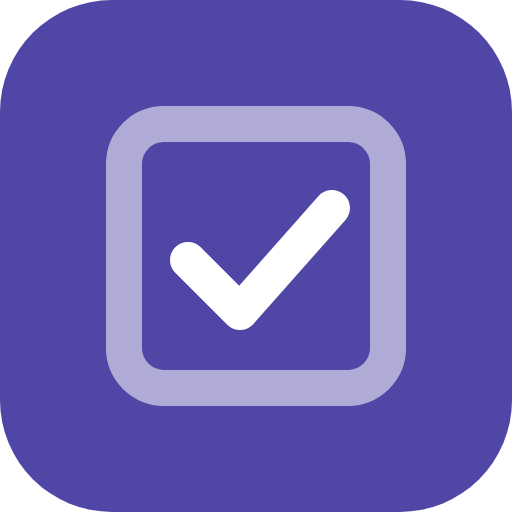
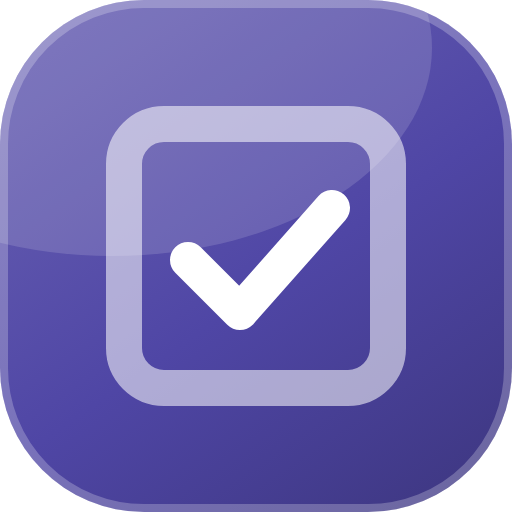
Add files via upload

diff --git a/index.html b/index.html
@@ -2,7 +2,7 @@
 <html lang="en" class="h-full">
 <head>
     <meta charset="UTF-8">
-    <meta http-equiv="Content-Security-Policy" content="default-src 'none'; script-src 'sha256-+zJBM4KFf2Q48acOjuITkdUxOmGa7lkbJbBmST4X/Zs=' 'sha256-7+Hj6lc7nqQZCnR+2RH3nv+J7YXfinZUyU7zoiOYMfw=' 'sha256-WDA5Z0zolebYHGdCiyvZdQVMXIz33yBEgaQ4W38RUDg=' 'sha256-fNlVzcUQ+Ai02+DwLGx4JN8UoLdfyyjPb/PX22LfbBo='; style-src 'unsafe-inline'; img-src 'self' data:; font-src 'none'; connect-src 'none'; media-src 'none'; object-src 'none'; frame-src 'none'; worker-src 'self'; manifest-src 'self'; base-uri 'none'; form-action 'none'">
+    <meta http-equiv="Content-Security-Policy" content="default-src 'none'; script-src 'sha256-+zJBM4KFf2Q48acOjuITkdUxOmGa7lkbJbBmST4X/Zs=' 'sha256-7+Hj6lc7nqQZCnR+2RH3nv+J7YXfinZUyU7zoiOYMfw=' 'sha256-WDA5Z0zolebYHGdCiyvZdQVMXIz33yBEgaQ4W38RUDg=' 'sha256-aNu6J17+fXm5Iml5PIzDbSz5pbkoiX5w7dEpDDU58F4='; style-src 'unsafe-inline'; img-src 'self' data:; font-src 'none'; connect-src 'none'; media-src 'none'; object-src 'none'; frame-src 'none'; worker-src 'self'; manifest-src 'self'; base-uri 'none'; form-action 'none'">
     <meta name="referrer" content="no-referrer">
     <meta name="viewport" content="width=device-width, initial-scale=1.0, viewport-fit=cover">
 <meta name="theme-color" content="#4F46A5">
@@ -13,15 +13,15 @@
     <meta name="apple-mobile-web-app-title" content="Action Plan">
     <meta name="apple-mobile-web-app-status-bar-style" content="default">
     <link rel="manifest" href="manifest.json">
-<link rel="icon" href="favicon.ico" sizes="48x48">
-<link rel="icon" href="favicon.svg" type="image/svg+xml">
-<link rel="apple-touch-icon" href="apple-touch-icon.png">
+<link rel="icon" href="favicon.ico?v=2" sizes="48x48">
+<link rel="icon" href="favicon.svg?v=2" type="image/svg+xml">
+<link rel="apple-touch-icon" href="apple-touch-icon.png?v=2">
     <meta property="og:type" content="website">
     <meta property="og:site_name" content="mbactionplan.online">
     <meta property="og:title" content="Action Plan | Simple, Focused Daily Productivity">
     <meta property="og:description" content="Action Plan is a free, private to-do list and focus timer. Plan your day with Today, a priority matrix, projects, a calendar and a Pomodoro timer. No account, and your tasks stay on your device.">
     <meta property="og:url" content="https://mbactionplan.online/">
-    <meta property="og:image" content="https://mbactionplan.online/og-image.png">
+    <meta property="og:image" content="https://mbactionplan.online/og-image.png?v=2">
     <meta property="og:image:type" content="image/png">
     <meta property="og:image:width" content="1200">
     <meta property="og:image:height" content="630">
@@ -29,7 +29,7 @@
     <meta name="twitter:card" content="summary_large_image">
     <meta name="twitter:title" content="Action Plan | Simple, Focused Daily Productivity">
     <meta name="twitter:description" content="Action Plan is a free, private to-do list and focus timer. Plan your day with Today, a priority matrix, projects, a calendar and a Pomodoro timer. No account, and your tasks stay on your device.">
-    <meta name="twitter:image" content="https://mbactionplan.online/og-image.png">
+    <meta name="twitter:image" content="https://mbactionplan.online/og-image.png?v=2">
     <!-- Always load light unless dark was chosen last time (runs before first paint). -->
     <script>
         (function () {
@@ -588,13 +588,141 @@ input[type=checkbox],input[type=radio],input[type=range],progress{accent-color:v
 #root .max-w-7xl{max-width:var(--page-max);padding-left:max(var(--gutter),env(safe-area-inset-left));padding-right:max(var(--gutter),env(safe-area-inset-right))}
 
 </style>
+<style id="mb-suite-cutouts">
+/* =====================================================================
+   MB SUITE v2 · PAPER CUTOUTS surface layer
+   Additive and accent-driven. Load LAST in <head>: after mb-suite-core.css,
+   mb-suite-appbar.css and the app's adapter. Never edit core to get this look.
+   Changes SURFACE only: gradients, page wash, cutout art. Geometry (6/4/8px),
+   layout, density, type, components, motion and behavior stay MB Suite v1.
+   Per-app tweaks go in adapters/<app>-cutouts.css, not here.
+   ===================================================================== */
+
+/* ---- art + gradient tokens (all derived from --accent; no per-app hex) ---- */
+:root{
+  --cut-deep:var(--accent);
+  --cut-mid:color-mix(in srgb,var(--accent) 52%,#fff);
+  --cut-soft:color-mix(in srgb,var(--accent) 24%,#fff);
+  --cut-near:color-mix(in srgb,var(--accent) 62%,#0aa6b8);      /* neighbor hue; upgraded below where supported */
+  --cut-butter:#FFD98A;
+  --cut-blush:#F7B8A8;
+  --wash-top:color-mix(in srgb,var(--accent) 7%,#fff);
+  --wash-mid:color-mix(in srgb,var(--accent) 4%,var(--bg));
+  --g-line:linear-gradient(90deg,var(--accent),var(--cut-mid) 55%,var(--cut-butter));
+  --g-underline:linear-gradient(90deg,var(--accent),var(--cut-mid));
+  --g-pri:linear-gradient(135deg,var(--accent),var(--accent-hover));
+  --g-bar:linear-gradient(90deg,var(--accent),var(--cut-mid));
+  --g-tile:linear-gradient(135deg,color-mix(in srgb,var(--accent) 11%,var(--surface)),var(--surface) 65%);
+}
+@supports (color:oklch(from red l c h)){
+  :root{--cut-near:oklch(from var(--accent) calc(l + .04) c calc(h + 34))}
+}
+:root[data-theme="dark"],:root.dark{
+  --cut-mid:color-mix(in srgb,var(--accent) 60%,var(--surface));
+  --cut-soft:color-mix(in srgb,var(--accent) 30%,var(--surface));
+  --cut-near:color-mix(in srgb,var(--accent) 62%,#0aa6b8);
+  --cut-butter:#D9B363;
+  --cut-blush:#C98C80;
+  --wash-top:color-mix(in srgb,var(--accent) 16%,var(--bg));
+  --wash-mid:color-mix(in srgb,var(--accent) 7%,var(--bg));
+}
+@supports (color:oklch(from red l c h)){
+  :root[data-theme="dark"],:root.dark{--cut-near:oklch(from var(--accent) calc(l - .06) c calc(h + 34))}
+}
+
+/* ---- page wash: accent-derived, fades into the neutral page by ~680px ---- */
+html{background:linear-gradient(180deg,var(--wash-top) 0,var(--wash-mid) 420px,var(--bg) 680px) no-repeat,var(--bg)}
+body{background:none}
+
+/* ---- app bar: gradient accent line + gradient underline on the current tab ---- */
+.top,.app-bar{box-shadow:var(--shadow)!important}
+.top::before,.app-bar::before{content:"";position:absolute;left:0;right:0;top:0;height:3px;background:var(--g-line);pointer-events:none;z-index:1}
+.tabs button[aria-current="page"],nav.tabs button[aria-current="page"],
+:root[data-theme="dark"] nav.tabs button[aria-current="page"]{box-shadow:none!important;background:var(--g-underline) bottom/100% 2px no-repeat!important}
+.bnav button[aria-current="page"]{box-shadow:none!important;background:var(--g-underline) top/100% 2px no-repeat!important}
+
+/* ---- gradient is allowed ONLY here (everything else stays flat v1) ----
+   primary buttons, progress/bar fills, the hero stat tile, the banner, the page wash, the accent line.
+   Map the app's own selectors in adapters/<app>-cutouts.css; these are the common ones. */
+:is(.btn.primary,.btn.pri,.btn-primary,button.primary,.primary-btn){background:var(--g-pri)!important;border-color:transparent!important;color:var(--accent-ink)!important}
+.cu-hero{background:var(--g-tile)}
+.cu-bar{background:var(--g-bar)!important}                 /* use on the fill element of a progress/bar */
+
+/* ---- banner ---- */
+.cu-banner{position:relative;overflow:hidden;min-height:128px;margin:0 0 var(--sp-4);padding:22px 24px;border-radius:var(--r-lg);
+  border:1px solid color-mix(in srgb,var(--accent) 16%,transparent);box-shadow:var(--shadow);
+  background:linear-gradient(105deg,color-mix(in srgb,var(--accent) 3%,var(--surface)) 0%,color-mix(in srgb,var(--accent) 9%,var(--surface)) 60%,
+    color-mix(in srgb,var(--cut-butter) 22%,color-mix(in srgb,var(--accent) 5%,var(--surface))) 100%)}
+.cu-banner.slim{min-height:72px;padding:16px 24px}
+.cu-banner .cu-txt{position:relative;z-index:1}
+.cu-banner.slim .cu-art:not(.at-bottom):not(.at-top){max-width:58%}
+.cu-banner .cu-t{margin:0;font-size:var(--fs-h2);font-weight:650;letter-spacing:-.015em;color:var(--ink)}
+.cu-banner .cu-s{margin:4px 0 0;font-size:13.5px;color:var(--ink-2)}
+
+/* ---- art: roles (never hardcode hexes; recolor by role class or palette class) ---- */
+.cu-art{position:absolute;right:0;top:0;height:100%;width:auto;max-width:75%;pointer-events:none}
+.cu-art .d{fill:var(--cu-d,var(--cut-deep))}
+.cu-art .m{fill:var(--cu-m,var(--cut-mid))}
+.cu-art .s{fill:var(--cu-s,var(--cut-soft))}
+.cu-art .n{fill:var(--cu-n,var(--cut-near))}
+.cu-art .b{fill:var(--cu-b,var(--cut-butter))}
+.cu-art .r{fill:var(--cu-r,var(--cut-blush))}
+.cu-art .sd{fill:none;stroke:var(--cu-d,var(--cut-deep));stroke-width:3;stroke-linecap:round;stroke-linejoin:round}
+.cu-art .sm{fill:none;stroke:var(--cu-m,var(--cut-mid));stroke-width:3;stroke-linecap:round;stroke-linejoin:round}
+
+/* ---- palettes: put on the svg or any ancestor ---- */
+.cu-p-mono{--cu-n:color-mix(in srgb,var(--accent) 78%,#000);--cu-b:color-mix(in srgb,var(--accent) 14%,var(--surface));--cu-r:color-mix(in srgb,var(--accent) 38%,var(--surface))}
+.cu-p-soft{--cu-d:var(--cut-mid);--cu-m:var(--cut-soft);--cu-s:color-mix(in srgb,var(--accent) 12%,var(--surface));
+  --cu-n:color-mix(in srgb,var(--cut-near) 45%,var(--surface));--cu-b:color-mix(in srgb,var(--cut-butter) 70%,var(--surface));--cu-r:color-mix(in srgb,var(--cut-blush) 70%,var(--surface))}
+.cu-p-bold{--cu-d:var(--accent-hover);--cu-m:var(--accent);--cu-s:var(--cut-mid)}
+
+/* ---- placement / size / modifiers (all optional; size with --cu-w or height) ---- */
+.cu-art.at-right{right:0;left:auto;top:0}
+.cu-art.at-left{left:0;right:auto;top:0}
+.cu-art.at-top{left:0;right:0;top:0;width:100%;height:auto;max-width:none}
+.cu-art.at-bottom{left:0;right:0;top:auto;bottom:0;width:100%;height:auto;max-width:none}
+.cu-art.at-corner{top:0;right:0;height:auto;width:var(--cu-w,220px);max-width:none}
+.cu-art.at-corner-bl{top:auto;right:auto;bottom:0;left:0;height:auto;width:var(--cu-w,220px);max-width:none}
+.cu-art.inline{position:relative;display:block;right:auto;top:auto;margin:0 auto;width:var(--cu-w,100%);max-width:100%;height:auto}
+.cu-art.mirror{transform:scaleX(-1)}
+.cu-art.flip{transform:scaleY(-1)}
+.cu-art.fade{opacity:.35}
+.cu-art.xs{--cu-w:64px}.cu-art.sm{--cu-w:120px}.cu-art.md{--cu-w:220px}.cu-art.lg{--cu-w:340px}
+:root[data-theme="dark"] .cu-art,:root.dark .cu-art{opacity:.85}
+:root[data-theme="dark"] .cu-art.fade,:root.dark .cu-art.fade{opacity:.3}
+
+/* ---- phones + print ---- */
+@media(max-width:600px){
+  .cu-banner{padding:18px 16px;min-height:104px}
+  .cu-banner .cu-art:not(.at-bottom):not(.at-top){max-width:46%}
+}
+@media print{html{background:#fff}.cu-banner,.cu-art{display:none}}
+
+/* =====================================================================
+   MB SUITE v2 · mbactionplan.online adapter (loads after mb-suite-cutouts.css)
+   Maps Action Plan's own selectors onto the v2 tokens. Surface only.
+   ===================================================================== */
+/* primary buttons: gradient (generic rule), with hover feedback and a flat disabled state */
+.btn.primary:hover:not(:disabled){filter:brightness(.94)}
+.btn.primary:disabled{background:var(--surface-3)!important;border-color:var(--border)!important;color:var(--muted)!important;filter:none}
+/* progress: Today meter and the segmented goal bar */
+.meter>i,.segs>i.on{background:var(--g-bar)}
+#splash .sp-bar i{background:var(--g-bar)}
+/* phone bottom bar: the active item uses the gradient marker instead of the Tailwind inset shadow */
+nav[aria-label="Main"] button[aria-current="page"]{box-shadow:none!important;background:var(--g-underline) top/100% 2px no-repeat!important}
+/* Today: the banner sits inside a space-y-4 stack, so it needs no bottom margin of its own */
+.space-y-4>.cu-banner{margin-bottom:0}
+/* splash: wreath around the 52px badge, static */
+#splash .sp-wreath{position:relative;width:min(280px,70vw);margin:0 auto}
+#splash .sp-wreath .sp-logo{position:absolute;inset:0;margin:auto}
+/* phones: keep banner text in its own column so it never meets the art */
+@media(max-width:600px){.cu-banner .cu-txt{max-width:54%}}
+</style>
 </head>
 <body class="h-full antialiased">
     <div id="root" class="h-full">
         <div id="splash" role="status" aria-label="Loading mbactionplan.online">
-            <div class="sp-logo" aria-hidden="true">
-                <svg viewBox="0 0 64 64" aria-hidden="true" focusable="false" width="52" height="52"><rect width="64" height="64" rx="14" fill="#4F46A5"/><rect x="15.5" y="15.5" width="33" height="33" rx="5" stroke="#fff" stroke-opacity=".55" stroke-width="4.5" fill="none"/><path d="M23.5 32.5L30 39L41.5 26" stroke="#fff" stroke-width="4.5" stroke-linecap="round" stroke-linejoin="round" fill="none"/></svg>
-            </div>
+            <div class="sp-wreath"><svg class="cu-art inline cu-p-soft" viewBox="0 0 320 320" preserveAspectRatio="xMidYMid meet" aria-hidden="true" focusable="false"><path class="b" transform="translate(289.4 194.7) rotate(95) scale(0.5)" d="M0 0 C 24 -15 70 -17 104 0 C 70 17 24 15 0 0Z"/><path class="r" transform="translate(254.8 254.8) rotate(125) scale(0.5)" d="M0 0 C 24 -15 70 -17 104 0 C 70 17 24 15 0 0Z"/><path class="s" transform="translate(194.7 289.4) rotate(155) scale(0.5)" d="M0 0 C 24 -15 70 -17 104 0 C 70 17 24 15 0 0Z"/><path class="b" transform="translate(125.3 289.4) rotate(185) scale(0.5)" d="M0 0 C 24 -15 70 -17 104 0 C 70 17 24 15 0 0Z"/><path class="r" transform="translate(65.2 254.8) rotate(215) scale(0.5)" d="M0 0 C 24 -15 70 -17 104 0 C 70 17 24 15 0 0Z"/><path class="s" transform="translate(30.6 194.7) rotate(245) scale(0.5)" d="M0 0 C 24 -15 70 -17 104 0 C 70 17 24 15 0 0Z"/><path class="b" transform="translate(30.6 125.3) rotate(275) scale(0.5)" d="M0 0 C 24 -15 70 -17 104 0 C 70 17 24 15 0 0Z"/><path class="r" transform="translate(65.2 65.2) rotate(305) scale(0.5)" d="M0 0 C 24 -15 70 -17 104 0 C 70 17 24 15 0 0Z"/><path class="s" transform="translate(125.3 30.6) rotate(335) scale(0.5)" d="M0 0 C 24 -15 70 -17 104 0 C 70 17 24 15 0 0Z"/><path class="b" transform="translate(194.7 30.6) rotate(365) scale(0.5)" d="M0 0 C 24 -15 70 -17 104 0 C 70 17 24 15 0 0Z"/><path class="r" transform="translate(254.8 65.2) rotate(395) scale(0.5)" d="M0 0 C 24 -15 70 -17 104 0 C 70 17 24 15 0 0Z"/><path class="s" transform="translate(289.4 125.3) rotate(425) scale(0.5)" d="M0 0 C 24 -15 70 -17 104 0 C 70 17 24 15 0 0Z"/><path class="d" transform="translate(260 160) rotate(78) scale(0.82)" d="M0 0 C 20 -34 66 -40 96 -6 C 70 28 22 34 0 0Z"/><path class="m" transform="translate(246.6 210) rotate(108) scale(1)" d="M0 0 C 20 -34 66 -40 96 -6 C 70 28 22 34 0 0Z"/><path class="s" transform="translate(210 246.6) rotate(138) scale(0.82)" d="M0 0 C 20 -34 66 -40 96 -6 C 70 28 22 34 0 0Z"/><path class="n" transform="translate(160 260) rotate(168) scale(1)" d="M0 0 C 20 -34 66 -40 96 -6 C 70 28 22 34 0 0Z"/><path class="m" transform="translate(110 246.6) rotate(198) scale(0.82)" d="M0 0 C 20 -34 66 -40 96 -6 C 70 28 22 34 0 0Z"/><path class="s" transform="translate(73.4 210) rotate(228) scale(1)" d="M0 0 C 20 -34 66 -40 96 -6 C 70 28 22 34 0 0Z"/><path class="d" transform="translate(60 160) rotate(258) scale(0.82)" d="M0 0 C 20 -34 66 -40 96 -6 C 70 28 22 34 0 0Z"/><path class="m" transform="translate(73.4 110) rotate(288) scale(1)" d="M0 0 C 20 -34 66 -40 96 -6 C 70 28 22 34 0 0Z"/><path class="s" transform="translate(110 73.4) rotate(318) scale(0.82)" d="M0 0 C 20 -34 66 -40 96 -6 C 70 28 22 34 0 0Z"/><path class="n" transform="translate(160 60) rotate(348) scale(1)" d="M0 0 C 20 -34 66 -40 96 -6 C 70 28 22 34 0 0Z"/><path class="m" transform="translate(210 73.4) rotate(378) scale(0.82)" d="M0 0 C 20 -34 66 -40 96 -6 C 70 28 22 34 0 0Z"/><path class="s" transform="translate(246.6 110) rotate(408) scale(1)" d="M0 0 C 20 -34 66 -40 96 -6 C 70 28 22 34 0 0Z"/><circle class="b" cx="160" cy="160" r="6"/></svg><div class="sp-logo" aria-hidden="true"><svg aria-hidden="true" focusable="false" viewBox="0 0 64 64" width="52" height="52"><defs><linearGradient id="g1" gradientUnits="userSpaceOnUse" x1="10" y1="0" x2="54" y2="64"><stop offset="0" stop-color="#6860b2"/><stop offset=".55" stop-color="#4F46A5"/><stop offset="1" stop-color="#3f3884"/></linearGradient><clipPath id="c1"><rect width="64" height="64" rx="18"/></clipPath></defs><g clip-path="url(#c1)"><rect width="64" height="64" fill="url(#g1)"/><ellipse cx="14" cy="6" rx="40" ry="26" fill="#fff" opacity="0.14"/><rect x="15.5" y="15.5" width="33" height="33" rx="5" stroke="#fff" stroke-opacity=".55" stroke-width="4.5" fill="none"/><path d="M23.5 32.5L30 39L41.5 26" stroke="#fff" stroke-width="4.5" stroke-linecap="round" stroke-linejoin="round" fill="none"/></g><rect x=".5" y=".5" width="63" height="63" rx="17.5" fill="none" stroke="#fff" stroke-opacity="0.24"/></svg></div></div>
             <div class="sp-name">mbactionplan<span class="tld">.online</span></div>
             <div class="sp-bar" aria-hidden="true"><i></i></div>
             <noscript>mbactionplan.online needs JavaScript to run.</noscript>
@@ -2380,9 +2508,13 @@ function ProjectModal({
 // no cookies, no analytics, no ads, no network requests after the page loads.
 // If any of that changes, update this text first.
 const LEGAL_UPDATED = 'October 8, 2026';
-const APP_VERSION = '18';
+const APP_VERSION = '18.1';
 // Newest first. Keep this in step with RELEASE_NOTES.md.
 const RELEASE_NOTES = [{
+  v: '18.1',
+  date: 'October 9, 2026',
+  items: ["Lighter, fresher look (Paper Cutouts): a soft indigo tint across the top of each page, a gradient accent line and tab underline, gradient buttons and progress bars, and a leaf-art banner on the Today screen. Layout, features and shortcuts are unchanged.", "New logo and icons: the same checked box on a softer gradient badge, with a matching link-preview image.", "Your tasks, projects, settings and backups are unchanged."]
+}, {
   v: '18',
   date: 'October 9, 2026',
   items: ['New look that matches the other mb apps: a flat indigo app icon (a checked box), a thin accent line across the top bar, and the same buttons, panels and spacing used across the family.', 'Your tasks, projects, settings and backups are unchanged.']
@@ -2508,7 +2640,7 @@ function LegalModal({
     className: "text-base font-semibold text-slate-900 dark:text-slate-100"
   }, "About & Legal ", /*#__PURE__*/React.createElement("span", {
     className: "text-xs font-normal text-slate-500 dark:text-slate-400"
-  }, "\xB7 Official Web App \xB7 v1.0")), /*#__PURE__*/React.createElement("button", {
+  }, "\xB7 Official Web App \xB7 v1.1")), /*#__PURE__*/React.createElement("button", {
     onClick: onClose,
     "aria-label": "Close",
     className: "btn ghost icon sm"
@@ -2647,7 +2779,7 @@ function Onboarding({
     className: "flex-1 overflow-y-auto px-5 py-5"
   }, step === 0 && /*#__PURE__*/React.createElement("div", null, /*#__PURE__*/React.createElement("div", {
     className: "flex items-center gap-3 mb-3"
-  }, /*#__PURE__*/React.createElement("svg", {viewBox: "0 0 64 64", className: "app-logo-lg shrink-0", "aria-hidden": "true", focusable: "false", dangerouslySetInnerHTML: {__html: "<rect width=\"64\" height=\"64\" rx=\"14\" fill=\"#4F46A5\"/><rect x=\"15.5\" y=\"15.5\" width=\"33\" height=\"33\" rx=\"5\" stroke=\"#fff\" stroke-opacity=\".55\" stroke-width=\"4.5\" fill=\"none\"/><path d=\"M23.5 32.5L30 39L41.5 26\" stroke=\"#fff\" stroke-width=\"4.5\" stroke-linecap=\"round\" stroke-linejoin=\"round\" fill=\"none\"/>"}}), /*#__PURE__*/React.createElement("div", null, /*#__PURE__*/React.createElement("h2", {
+  }, /*#__PURE__*/React.createElement("svg", {viewBox: "0 0 64 64", className: "app-logo-lg shrink-0", "aria-hidden": "true", focusable: "false", dangerouslySetInnerHTML: {__html: "<defs><linearGradient id=\"g2\" gradientUnits=\"userSpaceOnUse\" x1=\"10\" y1=\"0\" x2=\"54\" y2=\"64\"><stop offset=\"0\" stop-color=\"#6860b2\"/><stop offset=\".55\" stop-color=\"#4F46A5\"/><stop offset=\"1\" stop-color=\"#3f3884\"/></linearGradient><clipPath id=\"c2\"><rect width=\"64\" height=\"64\" rx=\"18\"/></clipPath></defs><g clip-path=\"url(#c2)\"><rect width=\"64\" height=\"64\" fill=\"url(#g2)\"/><ellipse cx=\"14\" cy=\"6\" rx=\"40\" ry=\"26\" fill=\"#fff\" opacity=\"0.14\"/><rect x=\"15.5\" y=\"15.5\" width=\"33\" height=\"33\" rx=\"5\" stroke=\"#fff\" stroke-opacity=\".55\" stroke-width=\"4.5\" fill=\"none\"/><path d=\"M23.5 32.5L30 39L41.5 26\" stroke=\"#fff\" stroke-width=\"4.5\" stroke-linecap=\"round\" stroke-linejoin=\"round\" fill=\"none\"/></g><rect x=\".5\" y=\".5\" width=\"63\" height=\"63\" rx=\"17.5\" fill=\"none\" stroke=\"#fff\" stroke-opacity=\"0.24\"/>"}}), /*#__PURE__*/React.createElement("div", null, /*#__PURE__*/React.createElement("h2", {
     id: titleId,
     className: "text-lg font-bold text-slate-900 dark:text-slate-100"
   }, "Welcome to mbactionplan.online"), /*#__PURE__*/React.createElement("p", {
@@ -3898,7 +4030,7 @@ function TodayView({
   }];
   const laterCount = model.upcoming.length + model.inbox.length + model.later.length;
   const hasAnyActive = tasks.some((t) => t.status !== "Completed");
-  return /* @__PURE__ */ React.createElement("div", { className: "space-y-4 animate-fade-in-up" }, /* @__PURE__ */ React.createElement("div", { className: "flex flex-col sm:flex-row sm:items-end justify-between gap-3" }, /* @__PURE__ */ React.createElement("div", { className: "min-w-0" }, /* @__PURE__ */ React.createElement("div", { className: "sect-t flex items-center gap-1.5" }, /* @__PURE__ */ React.createElement(Icon, { name: "sunrise", className: "w-3.5 h-3.5" }), " ", dateLabel), /* @__PURE__ */ React.createElement("h2", { className: "text-xl sm:text-[22px] font-extrabold tracking-tight text-slate-900 dark:text-slate-100 mt-0.5" }, headline), model.plannedMins > 0 && /* @__PURE__ */ React.createElement("p", { className: "hint mt-0.5 tabular" }, "About ", fmtMins(model.plannedMins), " planned", model.unestimated ? `, ${model.unestimated} without an estimate` : "")), /* @__PURE__ */ React.createElement("div", { className: "flex items-center gap-2 flex-wrap" }, projects.length > 1 && /* @__PURE__ */ React.createElement("div", null, /* @__PURE__ */ React.createElement("label", { htmlFor: "today-project-filter", className: "sr-only" }, "Project"), /* @__PURE__ */ React.createElement("select", { id: "today-project-filter", value: selectedProjectId, onChange: (e) => setSelectedProjectId(e.target.value), className: "px-3 td-select" }, /* @__PURE__ */ React.createElement("option", { value: "all" }, "All projects"), projects.map((p) => /* @__PURE__ */ React.createElement("option", { key: p.id, value: p.id }, p.name)))), /* @__PURE__ */ React.createElement("button", { type: "button", className: `btn sm ${hour >= 16 && left > 0 ? "primary" : ""}`, onClick: onReview }, /* @__PURE__ */ React.createElement(Icon, { name: "calendar-check", className: "w-4 h-4" }), " Wrap up", /* @__PURE__ */ React.createElement("span", { className: "hidden sm:inline" }, " day")), /* @__PURE__ */ React.createElement("button", { type: "button", className: "btn sm", onClick: onExplain }, /* @__PURE__ */ React.createElement(Icon, { name: "info", className: "w-4 h-4" }), " Explain", /* @__PURE__ */ React.createElement("span", { className: "hidden sm:inline" }, " my tasks")))), total > 0 && /* @__PURE__ */ React.createElement("div", null, total <= 14 ? /* @__PURE__ */ React.createElement("div", { className: "segs", role: "progressbar", "aria-label": "Today's progress", "aria-valuenow": doneToday, "aria-valuemin": "0", "aria-valuemax": total }, Array.from({
+  return /* @__PURE__ */ React.createElement("div", { className: "space-y-4 animate-fade-in-up" }, /* @__PURE__ */ React.createElement("section", { className: "cu-banner" }, /* @__PURE__ */ React.createElement("svg", { viewBox: "0 0 300 200", preserveAspectRatio: "xMaxYMax slice", className: "cu-art", "aria-hidden": "true", focusable: "false", dangerouslySetInnerHTML: { __html: "<path class=\"sd\" d=\"M280 192 L274 190.3 L267.8 188.3 L261.6 186.2 L255.3 183.8 L248.9 181.1 L242.4 178.2 L235.8 175.1 L229.2 171.8 L222.4 168.2 L215.6 164.4 L208.6 160.4 L201.6 156.2 L194.5 151.7 L187.3 147 L180 142 L172.6 136.8 L165.2 131.4 L157.6 125.8 L150 119.9 L142.2 113.8 L134.4 107.4 L126.5 100.9 L118.5 94.1 L110.4 87 L102.2 79.8 L94 72.3 L85.6 64.6 L77.2 56.6 L68.6 48.4 L60 40\"/><path class=\"d\" transform=\"translate(257.8 184.7) rotate(-209) scale(1)\" d=\"M0 0 C 20 -34 66 -40 96 -6 C 70 28 22 34 0 0Z\"/><path class=\"m\" transform=\"translate(228.5 171.5) rotate(-102.7) scale(0.9)\" d=\"M0 0 C 20 -34 66 -40 96 -6 C 70 28 22 34 0 0Z\"/><path class=\"n\" transform=\"translate(197.3 153.5) rotate(-197.6) scale(0.8)\" d=\"M0 0 C 20 -34 66 -40 96 -6 C 70 28 22 34 0 0Z\"/><path class=\"s\" transform=\"translate(164.4 130.9) rotate(-93.6) scale(0.7)\" d=\"M0 0 C 20 -34 66 -40 96 -6 C 70 28 22 34 0 0Z\"/><path class=\"d\" transform=\"translate(129.7 103.5) rotate(-190.2) scale(0.6)\" d=\"M0 0 C 20 -34 66 -40 96 -6 C 70 28 22 34 0 0Z\"/><path class=\"m\" transform=\"translate(60 40) rotate(-135.4) scale(0.65)\" d=\"M0 0 C 20 -34 66 -40 96 -6 C 70 28 22 34 0 0Z\"/><circle class=\"b\" cx=\"250\" cy=\"60\" r=\"9\"/><circle class=\"r\" cx=\"210\" cy=\"24\" r=\"5\"/>" } }), /* @__PURE__ */ React.createElement("div", { className: "cu-txt" }, /* @__PURE__ */ React.createElement("h2", { className: "cu-t" }, headline), /* @__PURE__ */ React.createElement("p", { className: "cu-s tabular" }, dateLabel, model.plannedMins > 0 ? " \u00B7 About " + fmtMins(model.plannedMins) + " planned" + (model.unestimated ? ", " + model.unestimated + " without an estimate" : "") : ""))), /* @__PURE__ */ React.createElement("div", { className: "flex items-center gap-2 flex-wrap sm:justify-end" }, projects.length > 1 && /* @__PURE__ */ React.createElement("div", null, /* @__PURE__ */ React.createElement("label", { htmlFor: "today-project-filter", className: "sr-only" }, "Project"), /* @__PURE__ */ React.createElement("select", { id: "today-project-filter", value: selectedProjectId, onChange: (e) => setSelectedProjectId(e.target.value), className: "px-3 td-select" }, /* @__PURE__ */ React.createElement("option", { value: "all" }, "All projects"), projects.map((p) => /* @__PURE__ */ React.createElement("option", { key: p.id, value: p.id }, p.name)))), /* @__PURE__ */ React.createElement("button", { type: "button", className: `btn sm ${hour >= 16 && left > 0 ? "primary" : ""}`, onClick: onReview }, /* @__PURE__ */ React.createElement(Icon, { name: "calendar-check", className: "w-4 h-4" }), " Wrap up", /* @__PURE__ */ React.createElement("span", { className: "hidden sm:inline" }, " day")), /* @__PURE__ */ React.createElement("button", { type: "button", className: "btn sm", onClick: onExplain }, /* @__PURE__ */ React.createElement(Icon, { name: "info", className: "w-4 h-4" }), " Explain", /* @__PURE__ */ React.createElement("span", { className: "hidden sm:inline" }, " my tasks"))), total > 0 && /* @__PURE__ */ React.createElement("div", null, total <= 14 ? /* @__PURE__ */ React.createElement("div", { className: "segs", role: "progressbar", "aria-label": "Today's progress", "aria-valuenow": doneToday, "aria-valuemin": "0", "aria-valuemax": total }, Array.from({
     length: total
   }).map((_, i) => /* @__PURE__ */ React.createElement("i", { key: i, className: i < doneToday ? "on" : "" }))) : /* @__PURE__ */ React.createElement("div", { className: "meter", role: "progressbar", "aria-label": "Today's progress", "aria-valuenow": pct, "aria-valuemin": "0", "aria-valuemax": "100" }, /* @__PURE__ */ React.createElement("i", { style: {
     width: `${pct}%`
@@ -5620,7 +5752,7 @@ function App() {
     className: "w-4 h-4"
   })), /*#__PURE__*/React.createElement("div", {
     className: "flex items-center gap-2.5 min-w-0"
-  }, /*#__PURE__*/React.createElement("svg", {viewBox: "0 0 64 64", className: "app-logo shrink-0", "aria-hidden": "true", focusable: "false", dangerouslySetInnerHTML: {__html: "<rect width=\"64\" height=\"64\" rx=\"14\" fill=\"#4F46A5\"/><rect x=\"15.5\" y=\"15.5\" width=\"33\" height=\"33\" rx=\"5\" stroke=\"#fff\" stroke-opacity=\".55\" stroke-width=\"4.5\" fill=\"none\"/><path d=\"M23.5 32.5L30 39L41.5 26\" stroke=\"#fff\" stroke-width=\"4.5\" stroke-linecap=\"round\" stroke-linejoin=\"round\" fill=\"none\"/>"}}), /*#__PURE__*/React.createElement("div", {
+  }, /*#__PURE__*/React.createElement("svg", {viewBox: "0 0 64 64", className: "app-logo shrink-0", "aria-hidden": "true", focusable: "false", dangerouslySetInnerHTML: {__html: "<defs><linearGradient id=\"g3\" gradientUnits=\"userSpaceOnUse\" x1=\"10\" y1=\"0\" x2=\"54\" y2=\"64\"><stop offset=\"0\" stop-color=\"#6860b2\"/><stop offset=\".55\" stop-color=\"#4F46A5\"/><stop offset=\"1\" stop-color=\"#3f3884\"/></linearGradient><clipPath id=\"c3\"><rect width=\"64\" height=\"64\" rx=\"18\"/></clipPath></defs><g clip-path=\"url(#c3)\"><rect width=\"64\" height=\"64\" fill=\"url(#g3)\"/><rect x=\"15.5\" y=\"15.5\" width=\"33\" height=\"33\" rx=\"5\" stroke=\"#fff\" stroke-opacity=\".55\" stroke-width=\"4.5\" fill=\"none\"/><path d=\"M23.5 32.5L30 39L41.5 26\" stroke=\"#fff\" stroke-width=\"4.5\" stroke-linecap=\"round\" stroke-linejoin=\"round\" fill=\"none\"/></g>"}}), /*#__PURE__*/React.createElement("div", {
     className: "min-w-0 leading-tight"
   }, /*#__PURE__*/React.createElement("h1", {
     className: "text-[15px] font-bold text-slate-900 dark:text-slate-100 truncate"
@@ -5628,7 +5760,7 @@ function App() {
     className: "tld"
   }, ".online")), /*#__PURE__*/React.createElement("p", {
     className: "hdr-tagline text-[11px] text-slate-500 dark:text-slate-400"
-  }, "Official Web App \xB7 v1.0"))), /*#__PURE__*/React.createElement("div", {
+  }, "Official Web App \xB7 v1.1"))), /*#__PURE__*/React.createElement("div", {
     className: "flex-1"
   }), /*#__PURE__*/React.createElement("div", {
     className: "relative hidden md:block"

diff --git a/sw.js b/sw.js
@@ -6,7 +6,7 @@
  * How it updates: it always asks the network first and only uses the saved copy when that fails (or is very
  * slow). So uploading new files to the host is enough. There is no version number to bump here.
  */
-const CACHE = 'actionplan-app-v18';
+const CACHE = 'actionplan-app-v18.1';
 const SHELL = ['./', 'index.html', 'manifest.json', 'favicon.svg', 'icon-192.png', 'icon-512.png',
   'icon-maskable-512.png', 'apple-touch-icon.png'];
 const SLOW_MS = 4000; // with a saved copy on hand, stop waiting on a bad connection after this long

diff --git a/RELEASE_NOTES.md b/RELEASE_NOTES.md
@@ -2,6 +2,12 @@
 
 Newest first. The same notes appear in the app under **About & Legal → Release notes** (footer link).
 
+## Version 18.1 · October 9, 2026
+
+- Lighter, fresher look (Paper Cutouts): a soft indigo tint across the top of each page, a gradient accent line and tab underline, gradient buttons and progress bars, and a leaf-art banner on the Today screen. Layout, features and shortcuts are unchanged.
+- New logo and icons: the same checked box on a softer gradient badge, with a matching link-preview image.
+- Your tasks, projects, settings and backups are unchanged.
+
 ## Version 18 · October 9, 2026
 
 - New look that matches the other mb apps: a flat indigo app icon (a checked box), a thin accent line across the top bar, and the same buttons, panels and spacing used across the family.
